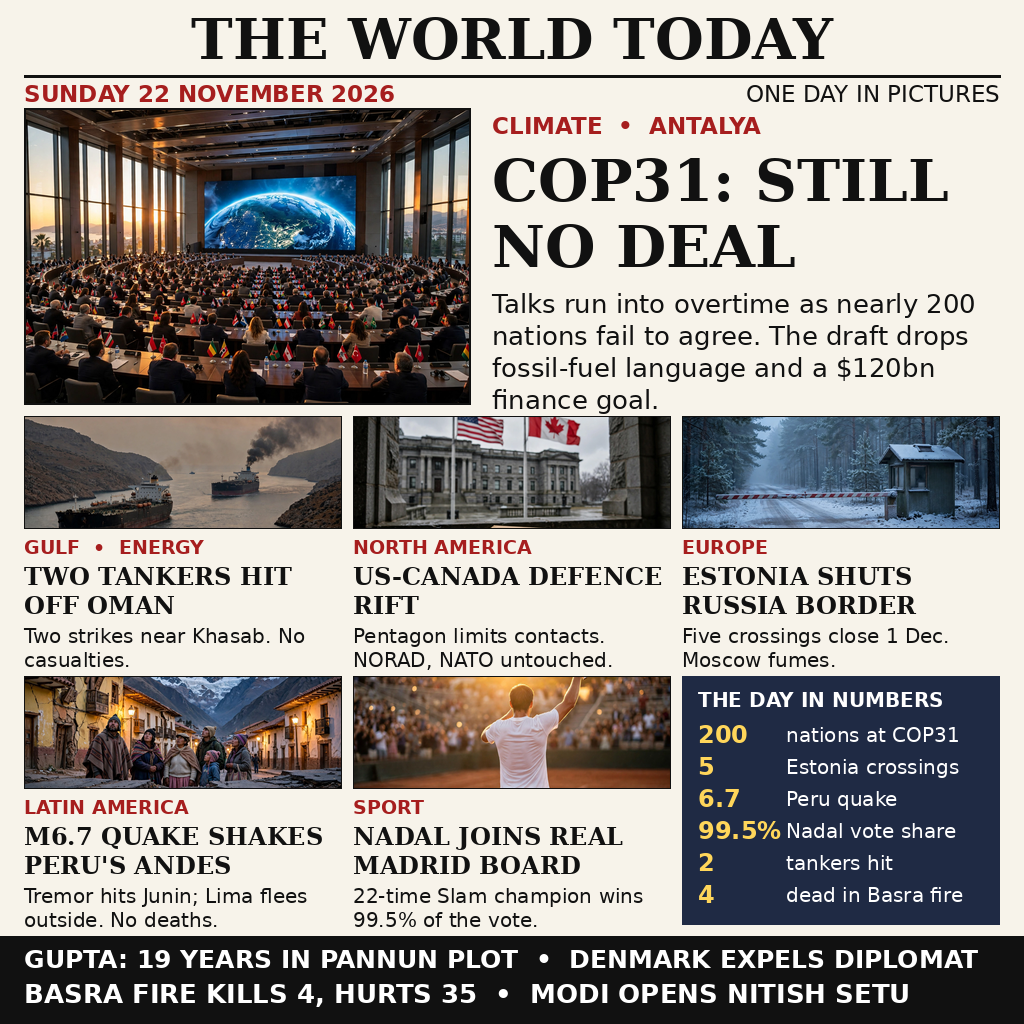
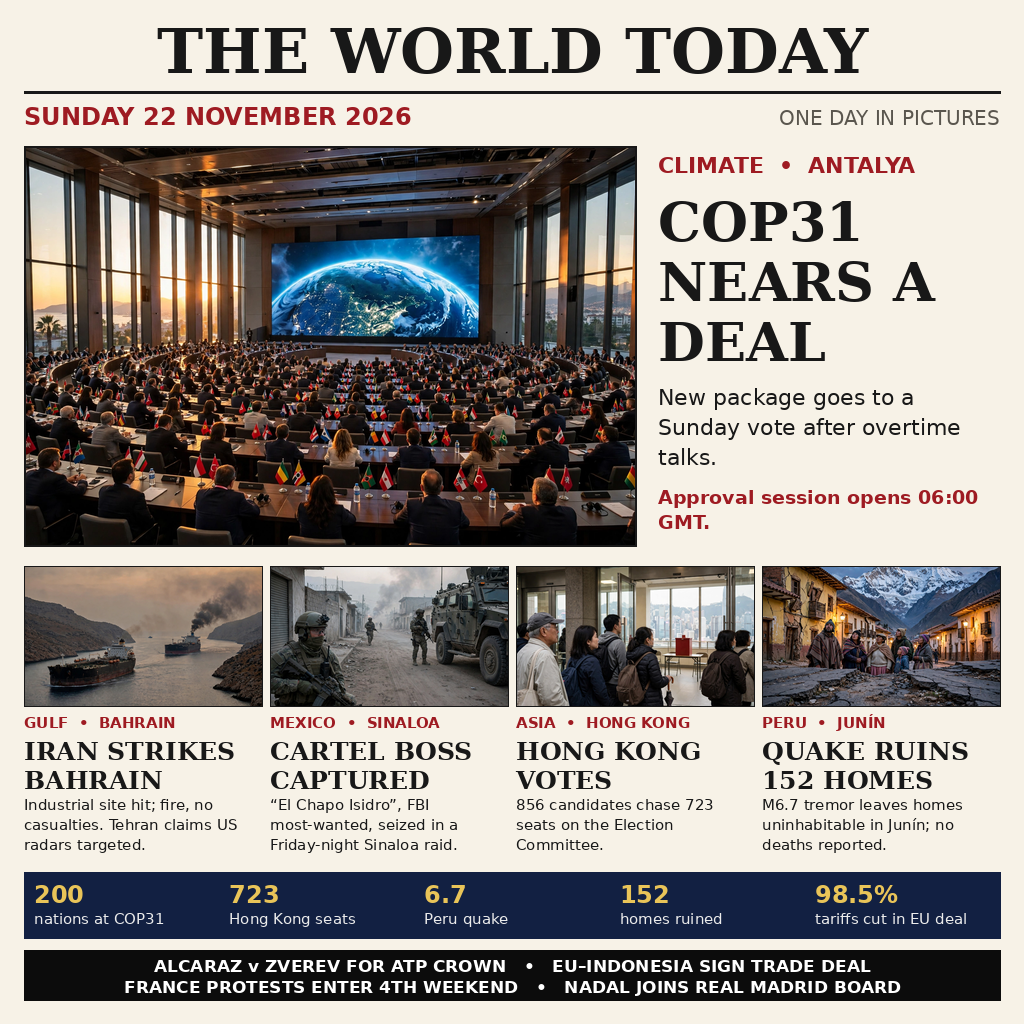
v2: COP31 nears a deal — cleaner front page, one dominant hero
Revises v1 (rank ~117/768, judge 974.933): overnight the COP31 story
moved from STILL NO DEAL to a new package going to a Sunday vote.
Layout rebuilt with one dominant hero (COP31, ~40% of frame) and four
supporting panels (Bahrain, Sinaloa, Hong Kong, Peru) plus a numbers
strip and ticker. Headlines re-verified against real sources read
22 Nov; image rebuilt in three passes (v2a/v2b hero-note clipping
fixed in v2c). entry.png 1024x1024, 798,368 bytes, sha256
0ed81c4b5662e6c8a0011ccb4ac4aa261def7444dc59e8080b37dad15e4083eb.

diff --git a/README.md b/README.md
@@ -6,17 +6,21 @@
 
 One image that sums up the world's news of **Sunday 22 November 2026**:
 a front page, "THE WORLD TODAY", typeset from six text-free
-illustrations and the day's reported stories.
+illustrations and the day's reported stories. v2 revises v1: the COP31
+story moved overnight, the layout has one dominant hero, and the
+supporting stories are fresher.
 
-- **Top story — COP31: STILL NO DEAL.** Talks in Antalya run into
-  overtime as nearly 200 nations fail to agree; the draft drops
-  fossil-fuel language and a $120bn finance goal.
-- **Gulf:** two tankers hit off Oman, no casualties.
-- **North America:** US–Canada defence rift over a classified
-  Pentagon memo; NORAD and NATO work untouched.
-- **Europe:** Estonia shuts its Russia border crossings from 1 December.
-- **Latin America:** M6.7 quake shakes Peru's Andes; no deaths.
-- **Sport:** Nadal joins Real Madrid's board with 99.5% of the vote.
+- **Top story — COP31: NEARS A DEAL.** A new package goes to a Sunday
+  vote in Antalya; the approval session opens 06:00 GMT.
+- **Gulf:** Iran strikes Bahrain — an industrial site hit, fire,
+  no casualties; Tehran claims US radars targeted.
+- **North America:** cartel boss "El Chapo Isidro" captured in
+  Sinaloa; FBI most-wanted, seized in a Friday-night raid.
+- **Asia:** Hong Kong votes — 856 candidates chase 723 Election
+  Committee seats.
+- **Latin America:** Peru quake ruins 152 homes in Junín; no deaths.
+- **Sport:** Nadal joins Real Madrid's board with 99.5% of the vote;
+  Alcaraz v Zverev for the ATP Finals crown.
 
 ## Run
 
